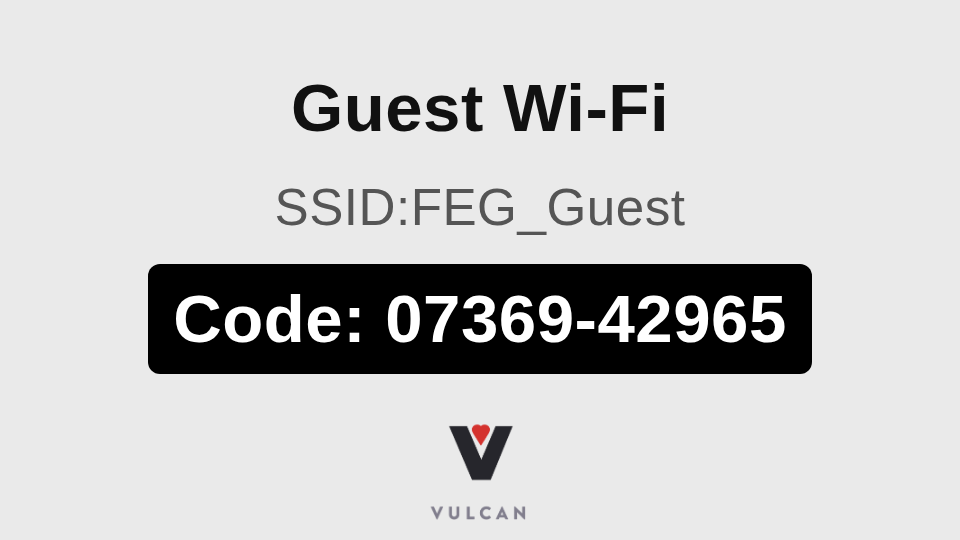
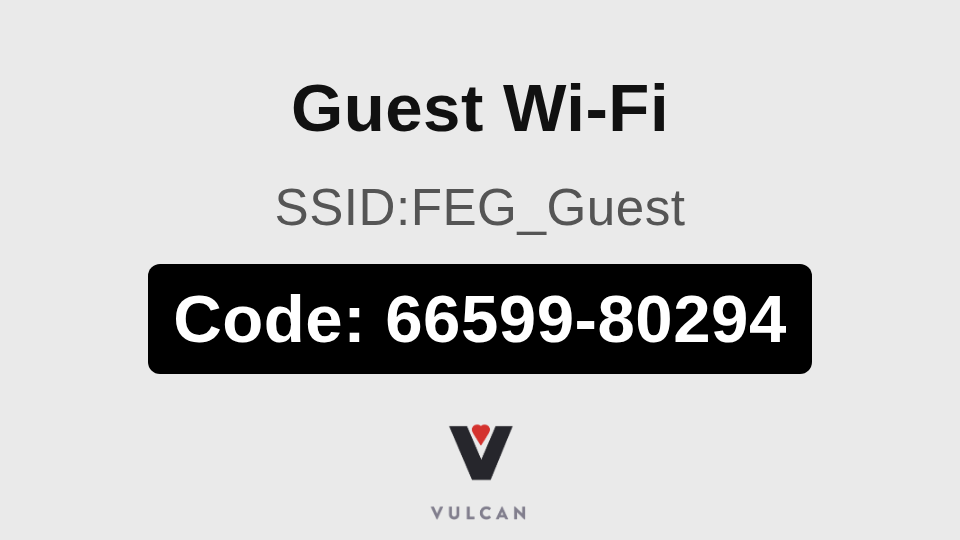
Automated Weekly Wi-Fi Refresh and E-Ink Flashy Image Update

Changed region(s): [[0.625, 0.5333, 0.8438, 0.6519], [0.4062, 0.5333, 0.5625, 0.6519]]

diff --git a/wifi/wifi2.html b/wifi/wifi2.html
@@ -68,7 +68,7 @@
         <div class="wifi-line">
             Guest Wi-Fi<br>
             <span style="font-weight: 400; font-size: 3.2rem; color: #555555;">SSID:FEG_Guest</span><br>
-            <div class="code-highlight">Code: 07369-42965</div>
+            <div class="code-highlight">Code: 66599-80294</div>
         </div>
         
         <div class="logo-footer">
